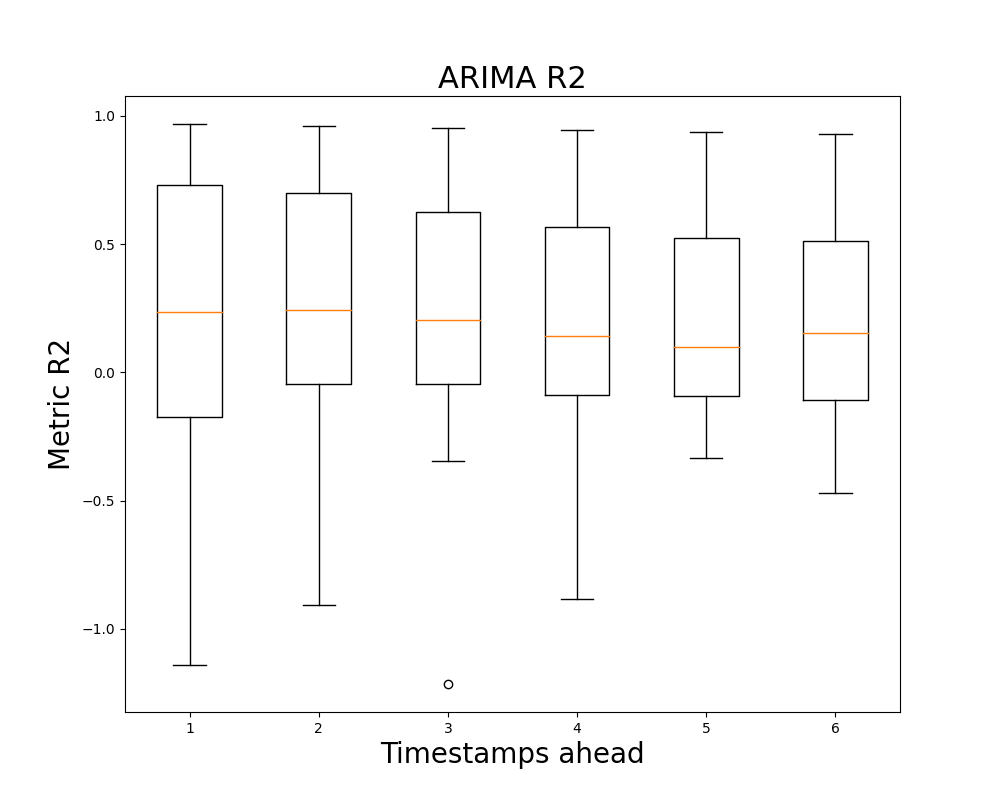
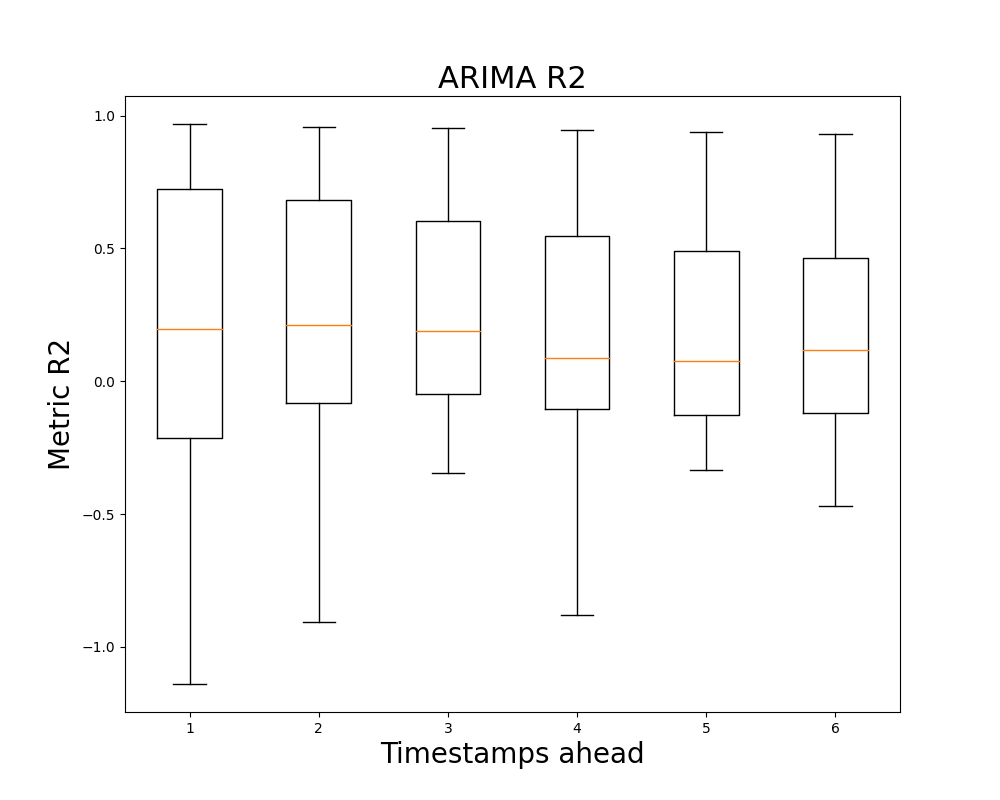
refactor arima results

diff --git a/generalization_tests/arima/results/read_arima_results.py b/generalization_tests/arima/results/read_arima_results.py
@@ -4,8 +4,7 @@ import numpy as np
 from matplotlib import pyplot as plt
 
 
-def remove_outliers(data):
-    cleaned_data = []
+def calculate_outliers(data):
     for inner_list in data:
         data_arr = np.array(inner_list, dtype=np.float64)
 
@@ -18,17 +17,13 @@ def remove_outliers(data):
         upper_bound = Q3 + 2 * IQR
         print(len(data_arr))
         print(len([x for x in data_arr if lower_bound <= x <= upper_bound]))
-        cleaned_data.append([x for x in data_arr if lower_bound <= x <= upper_bound])
-
-    return cleaned_data
 
 
 def create_boxplot(loss, name, timestamp, dir):
     print(dir +" "+ name)
-    loss = remove_outliers(loss)
+    calculate_outliers(loss)
     fig, ax = plt.subplots(nrows=1, ncols=1, figsize=(10, 8))
-
-    plt.boxplot(loss)
+    plt.boxplot(loss, showfliers=False)
     plt.xlabel('Timestamps ahead', fontsize=20)
     plt.ylabel('Metric ' + name, fontsize=20)
     plt.title('ARIMA ' + name, fontsize=22)
